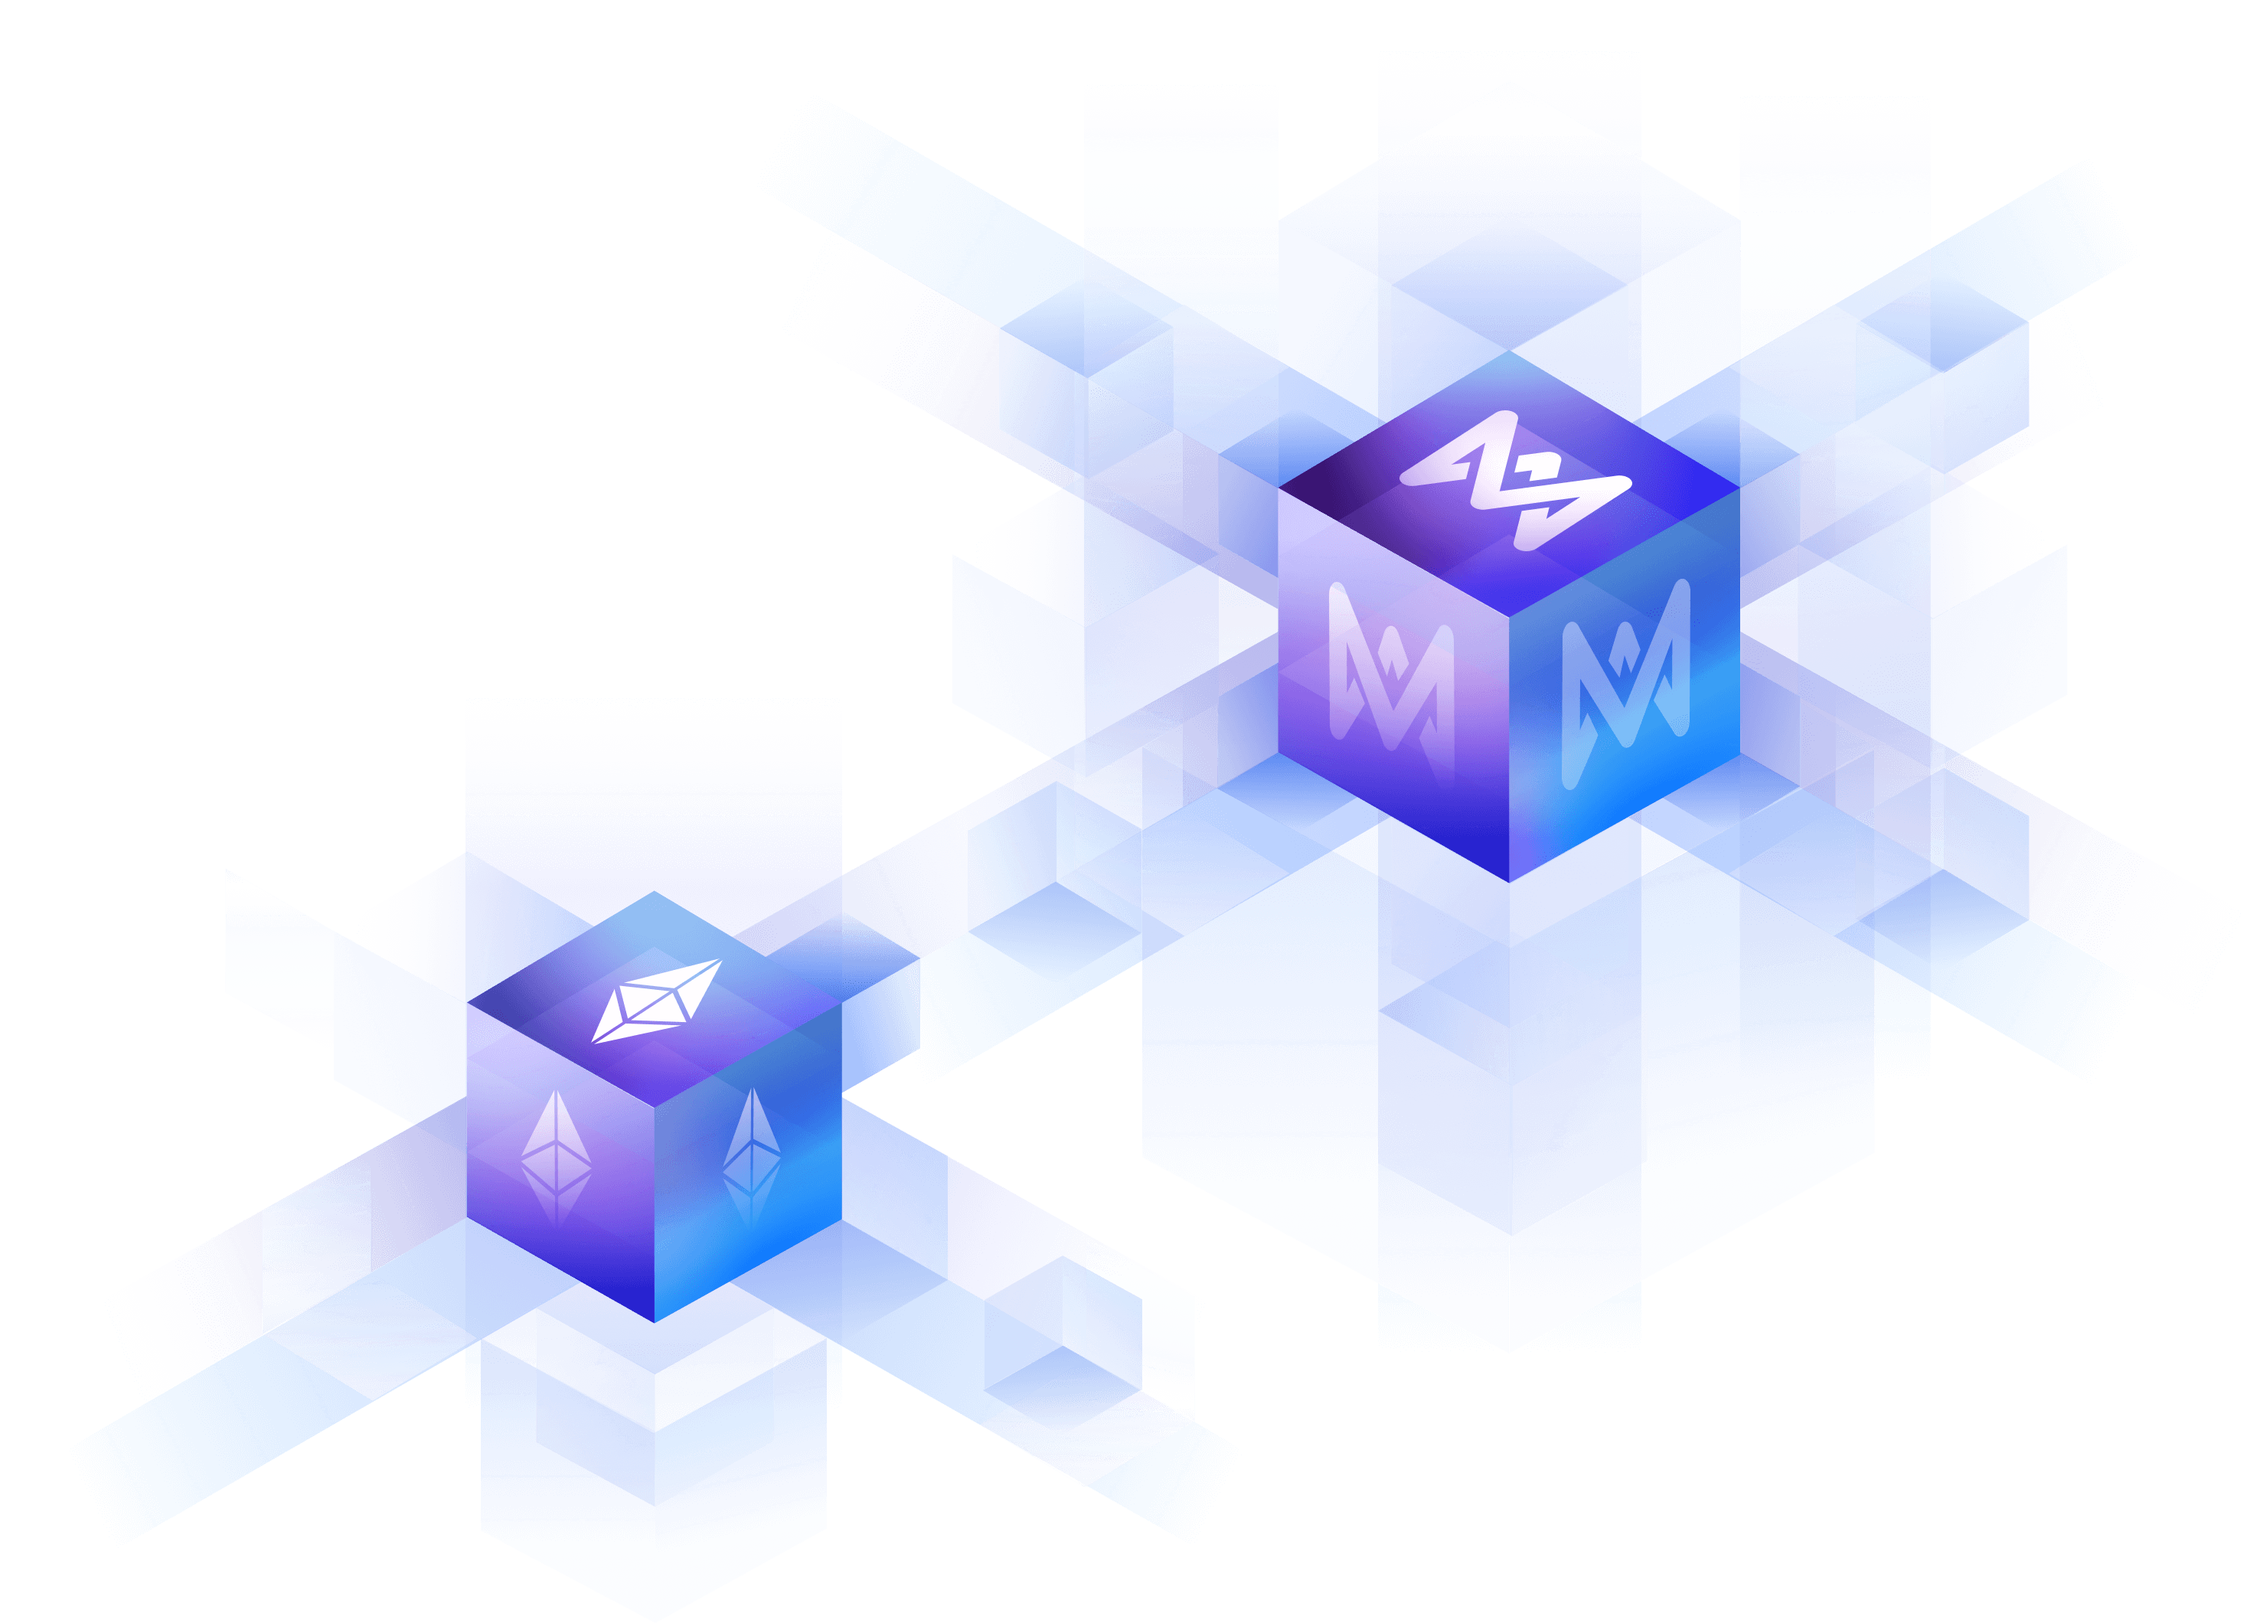
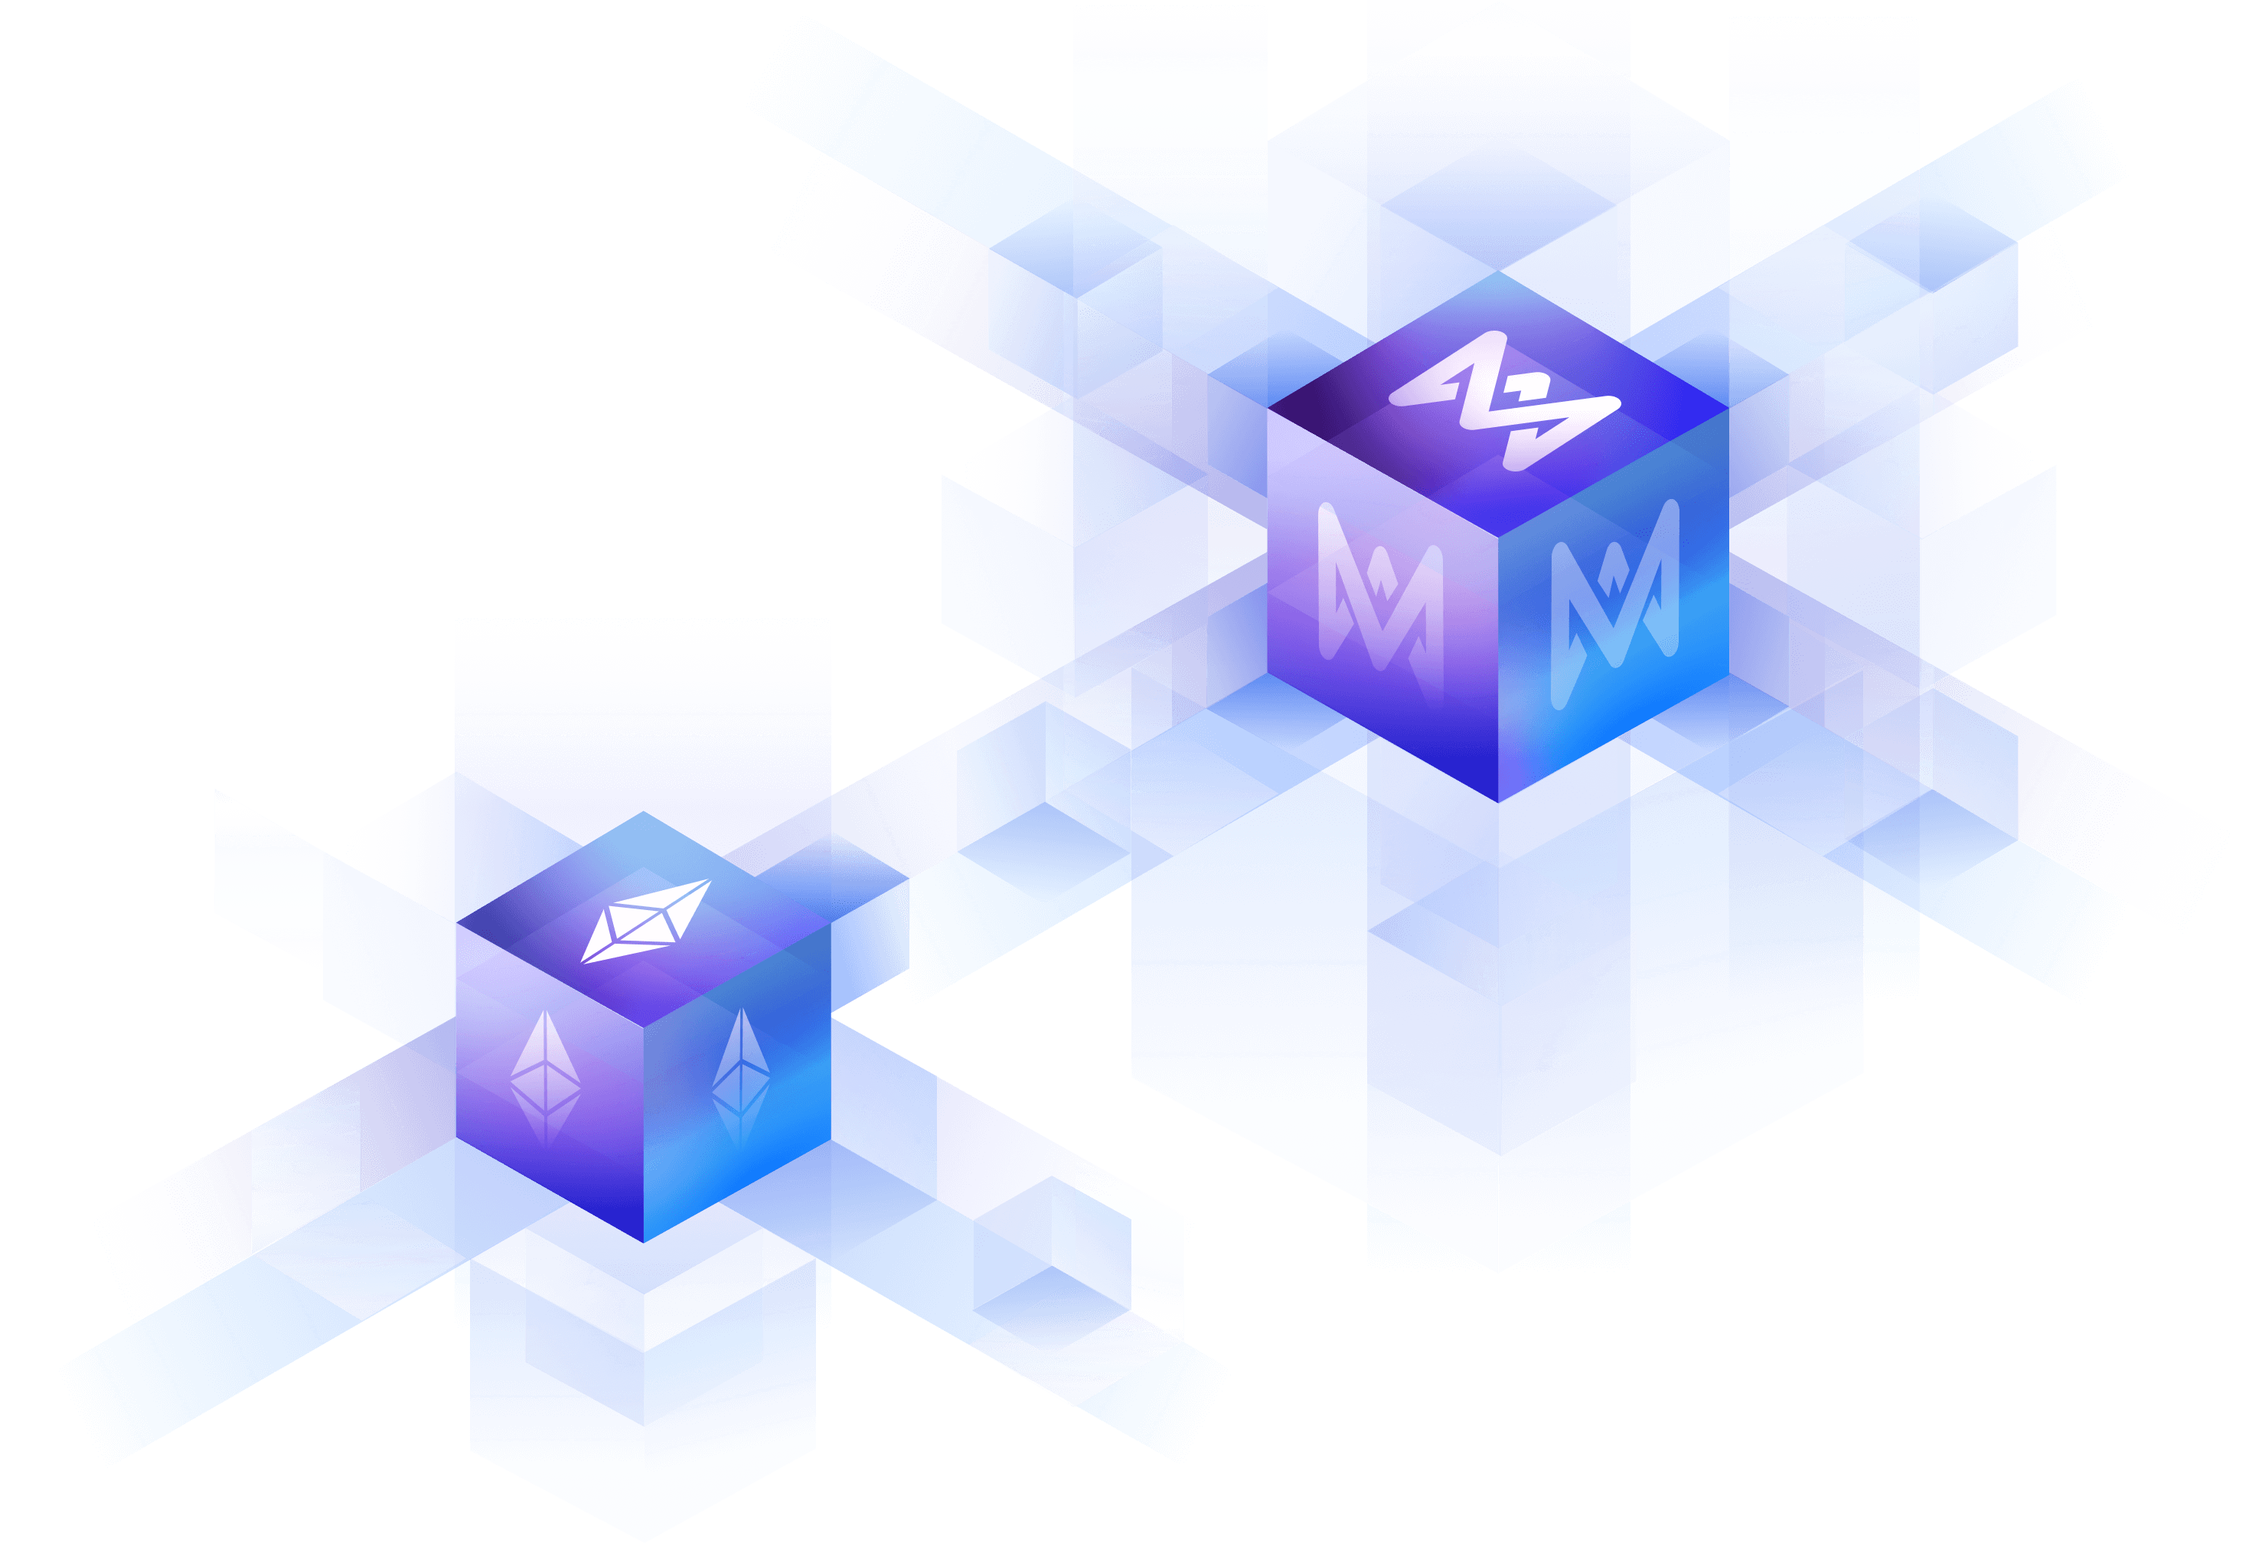
Improve intro section style

diff --git a/components/IntroSection.vue b/components/IntroSection.vue
@@ -1,58 +1,78 @@
 <template>
   <div
-      class="relative pt-[88px] h-screen min-h-[720px] background sm:pt-[150px]"
+      class="relative pt-[72px] h-screen background sm:pt-[100px]"
     >
-      <div class="flex flex-col justify-around items-start mx-auto px-6 pb-3 w-full h-full sm:justify-evenly sm:px-0 sm:pb-2 sm:min-h-[495px] sm:w-[632px] md:min-h-[580px] md:w-[852px] lg:min-h-[700px] lg:w-[1200px]">
+      <div 
+        :class="[
+          'flex flex-col justify-evenly items-start mx-auto px-6 w-full h-full sm:justify-evenly sm:px-0 sm:pb-2',
+          'sm:min-h-[400px] sm:max-h-[500px] sm:w-[632px] md:min-h-[580px] md:max-h-[750px] md:w-[852px] lg:max-h-[900px] lg:min-h-[700px] lg:w-[1280px]'
+        ]">
         <!-- title -->
-        <div class="relative w-full">
+        <div class="relative w-full h-auto">
           <div
-            class="relative w-full font-bold text-[30px] sm:text-[32px] md:text-[40px] lg:text-[56px] leading-[130%]"
+            class="relative w-full font-bold text-[32px] leading-[130%] tracking-[-0.4px] sm:text-4xl md:text-5xl lg:text-[56px] "
           >
             <div class="text-primary">{{ $t('intro.title1') }}</div>
             <div>{{ $t('intro.title2') }}</div>
           </div>
 
           <img 
-            class="w-full select-none sm:absolute sm:-right-20 sm:-top-16 sm:w-auto sm:h-[300px] md:h-[380px] lg:-top-32 lg:h-[530px]"
+            class="mx-auto max-w-[500px] w-full select-none sm:absolute sm:-right-20 sm:-top-6 sm:max-w-none sm:w-auto sm:h-[300px] md:-top-8 md:h-[380px] lg:-top-24 lg:h-[500px]"
             :src="background"
             alt="background-image"
           />
 
           <div
-            class="relative mt-4 text-sm opacity-60 sm:mt-3 sm:w-[400px] md:text-base md:mt-6 md:w-[500px] lg:mt-6 lg:text-xl lg:w-[700px]"
+            class="mt-1 font-normal text-sm leading-[130%] text-black/60 sm:static sm:mt-6 sm:w-[380px] sm:text-base md:w-[500px] md:text-lg lg:w-[700px] lg:text-xl "
           >
-          {{ $t('intro.subTitle') }}
+            {{ $t('intro.subTitle') }}
           </div>
         </div>
 
         <!-- links -->
         <div
-          class="button-container flex justify-between relative my-3 w-full sm:my-6 sm:w-[344px] md:w-[380px] lg:w-[440px]"
+          class="flex justify-between my-1 w-full sm:my-0 sm:w-[344px] md:w-[380px] lg:w-[447px]"
         >
-          <div class="flex flex-[0_0_48%] h-12 cursor-pointer overflow-hidden text-sm md:flex-[0_0_47%] md:h-[60px] lg:text-xl">
+          <div 
+            v-for="(l, i) in links"
+            :key="i"
+            class="flex flex-[0_0_48%] h-12 cursor-pointer overflow-hidden md:flex-[0_0_47%] md:h-[60px]"
+          >
             <a 
-              class="flex justify-center items-center w-full h-full border-2 border-primary rounded-xl bg-primary text-white hover:bg-hover hover:border-hover hover:text-primary" 
-              href="https://mvm.dev"
+              :class="[
+                'flex justify-center items-center w-full h-full font-normal text-sm leading-5 border-2 border-primary rounded-xl sm:text-base md:text-lg lg:text-xl',
+                i === 0 
+                  ? 'bg-primary text-white hover:bg-hover hover:border-hover hover:text-primary'
+                  : 'text-primary hover:bg-hover hover:border-hover hover:text-primary'
+              ]" 
+              :href="l.href"
             >
-              {{ $t('intro.doc') }}
-            </a>
-          </div>
-          <div class="flex flex-[0_0_48%] h-12 cursor-pointer overflow-hidden text-sm md:flex-[0_0_47%] md:h-[60px] lg:text-xl">
-            <a 
-              class="flex justify-center items-center w-full h-full border-2 border-primary rounded-xl text-primary hover:bg-hover hover:border-hover hover:text-primary" 
-              href="https://bridge.mvm.app"
-            >
-              {{ $t('intro.bridge') }}
+              {{ l.text }}
             </a>
           </div>
         </div>
 
         <!-- status -->
-        <div class="flex flex-wrap justify-between relative w-full">
+        <div class="flex flex-wrap justify-between w-full">
           <feature-box
             v-for="(feature, i) of features"
             :key="i"
-            :box-style="boxStyle"
+            :box-style="[
+              boxStyle,
+              i < 2 ? 'flex mb-0 sm:flex' : 'hidden sm:flex'
+            ]"
+            :title="feature.title"
+            :content="feature.content"
+          />
+        </div>
+        <div class="flex flex-wrap justify-between w-full sm:hidden">
+          <feature-box
+            v-for="(feature, i) of features.slice(2)"
+            :key="i"
+            :box-style="[
+              boxStyle,
+              'flex mb-0'
+            ]"
             :title="feature.title"
             :content="feature.content"
           />
@@ -77,9 +97,19 @@ export default {
   },
   data() {
     return {
-      boxStyle:"flex flex-[0_0_48%] flex-col justify-center items-center mb-3 py-2.5 bg-white shadow-mvm rounded-xl box-border text-center sm:mb-0 sm:flex-[0_0_23%] sm:py-3 md:py-4 lg:py-[30px]",
+      boxStyle:"flex-[0_0_48%] flex-col justify-center items-center py-2 bg-white shadow-mvm rounded-xl box-border text-center sm:mb-0 sm:flex-[0_0_23.5%] sm:p-0 sm:h-20 md:h-[100px] lg:h-[142px]",
       background,
       tvl: this.eth,
+      links: [
+        {
+          href: "https://mvm.dev",
+          text: this.$t('intro.doc')
+        },
+        {
+          href: "https://bridge.mvm.app",
+          text: this.$t('intro.bridge')
+        }
+      ]
     };
   },
   mounted() {
@@ -88,8 +118,8 @@ export default {
   computed: {
     features() {
       const tvlString = `$${toThousands(Math.floor(Number(this.tvl)).toString())}`;
-      const titleStyle = "font-bold sm:text-lg md:text-[22px] lg:text-3xl";
-      const contentStyle = "mt-1 text-sm opacity-60 sm:mt-1.5 md:text-base md:mt-3 lg:mt-3.5 lg:text-lg";
+      const titleStyle = "font-bold text-lg leading-[27px] text-black/80 md:text-[22px] lg:text-3xl lg:leading-[45px]";
+      const contentStyle = "mt-1.5 font-normal text-sm leading-[130%] text-black/60 md:text-base lg:text-lg";
       return [
         {
           title: {

diff --git a/components/Header.vue b/components/Header.vue
@@ -1,7 +1,7 @@
 <template>
   <div class="flex justify-center items-center absolute top-0 w-full my-6 px-6 z-10 sm:my-0 sm:h-[100px] sm:w-full sm:px-0">
     <div 
-      class="relative flex flex-row justify-between items-center w-full h-6 sm:h-auto sm:w-[632px] md:w-[852px] lg:w-[1200px]"
+      class="relative flex flex-row justify-between items-center w-full h-6 sm:h-auto sm:w-[632px] md:w-[852px] lg:w-[1280px]"
     >
       <div class="flex row items-center h-6 sm:h-8">
         <img class="h-full" :src="logo" alt="mvm-logo" />
@@ -23,7 +23,7 @@
           ]"
         >
           <div 
-            v-for="(l, i) in nav" 
+            v-for="(l, i) in navs" 
             :key="i"
             :class="[
               'flex items-center w-full h-12 bg-white sm:justify-center sm:ml-10 sm:w-auto sm:h-auto',
@@ -49,7 +49,7 @@ export default {
       logo,
       menuIcon,
       showNav: false,
-      nav: [
+      navs: [
         {
           href: "https://scan.mvm.dev",
           text: this.$t('nav.explorer')

diff --git a/components/ContractSection.vue b/components/ContractSection.vue
@@ -1,6 +1,6 @@
 <template>
   <div class="flex justify-center items-center pt-[96px] px-6 eco-background sm:pt-[170px] sm:pb-[138px] sm:px-0">
-    <div class="flex flex-col items-center w-full sm:w-[632px] md:w-[852px] lg:w-[1200px]">
+    <div class="flex flex-col items-center w-full sm:w-[632px] md:w-[852px] lg:w-[1280px]">
       <div class="mb-[100px] w-full font-bold text-[32px] leading-[130%] sm:mb-[180px] sm:text-[50px] sm:leading-[72px] sm:text-center">
         <span class="text-primary">{{ $t("contract.title1") }}</span>{{ $t("contract.title2") }}
       </div>

diff --git a/helpers/api.ts b/helpers/api.ts
@@ -50,8 +50,12 @@ export const getMvmTvl = async () => {
 
 export const getEthValue = async () => {
   const eth = await networkClient.fetchAsset(ETH_ASSET_ID);
-  const ethSupply = await fetchEthSupply();
-  return ethSupply.mulUnsafe(FixedNumber.from(eth.price_usd)).toString();
+  try {
+    const ethSupply = await fetchEthSupply();
+    return ethSupply.mulUnsafe(FixedNumber.from(eth.price_usd)).toString();
+  } catch(e) {
+    return '200000';
+  }
 };
 
 export const fetchMvmToken = async (address: string) => {

diff --git a/components/CommunitySection.vue b/components/CommunitySection.vue
@@ -1,6 +1,6 @@
 <template>
   <div class="pt-[58px] pb-[76px] w-full px-6 sm:pt-[120px] sm:pb-[200px] sm:px-0">
-    <div class="mx-auto w-full sm:w-[632px] md:w-[852px] lg:w-[1200px]">
+    <div class="mx-auto w-full sm:w-[632px] md:w-[852px] lg:w-[1280px]">
       <div class="w-full text-left font-bold text-[32px] leading-[130%] sm:text-[50px] sm:leading-[72px] sm:text-center">
         <span class="text-primary">{{ $t("community.title1") }}</span>{{ $t("community.title2") }}
       </div>

diff --git a/components/EcosystemSection.vue b/components/EcosystemSection.vue
@@ -1,6 +1,6 @@
 <template>
   <div class="pt-[100px] px-6 bg-footer sm:pt-[140px] sm:pb-[60px] sm:px-0">
-    <div class="mx-auto w-full sm:w-[632px] md:w-[852px] lg:w-[1200px]">
+    <div class="mx-auto w-full sm:w-[632px] md:w-[852px] lg:w-[1280px]">
       <div class="w-full font-bold text-[32px] leading-[130%] sm:text-[50px] sm:leading-[72px] sm:text-center">
         <span class="text-primary">{{ $t("ecosystem.title1") }}</span>{{ $t("ecosystem.title2") }}
       </div>

diff --git a/components/DocSection.vue b/components/DocSection.vue
@@ -1,6 +1,6 @@
 <template>
   <div class="pt-20 pb-[38px] px-6 w-full sm:pt-[150px] sm:pb-[120px] sm:px-0">
-    <div class="mx-auto w-full sm:w-[632px] md:w-[852px] lg:w-[1200px]">
+    <div class="mx-auto w-full sm:w-[632px] md:w-[852px] lg:w-[1280px]">
       <div class="font-bold text-[32px] leading-[130%] sm:text-[50px] sm:leading-[72px] sm:text-center">
         <span class="text-primary">{{ $t("doc.title1") }}</span>{{ $t("doc.title2") }}
       </div>

diff --git a/components/Footer.vue b/components/Footer.vue
@@ -3,7 +3,7 @@
     class="w-full px-6 pt-16 pb-20 bg-footer sm:h-[303px] sm:px-0 sm:pb-[122px]"
   >
     <div 
-      class="flex flex-col w-full sm:h-[184px] sm:flex-row sm:mx-auto sm:w-[632px] md:w-[852px] lg:w-[1200px]"
+      class="flex flex-col w-full sm:h-[184px] sm:flex-row sm:mx-auto sm:w-[632px] md:w-[852px] lg:w-[1280px]"
     >
       <div class="w-4/5 h-full sm:w-5/12 md:w-1/2">
         <div class="flex flex-row items-center mb-8 sm:mb-4">

diff --git a/pages/index.vue b/pages/index.vue
@@ -1,6 +1,6 @@
 <template>
   <div
-    class="relative w-full min-w-[320px] overflow-x-hidden"
+    class="relative w-full min-w-[350px] overflow-x-hidden"
   >
     <Header></Header>
     <IntroSection :eth="tvl" />

diff --git a/tailwind.config.js b/tailwind.config.js
@@ -14,7 +14,7 @@ module.exports = {
     screens: {
       sm: "720px",
       md: "960px",
-      lg: "1280px",
+      lg: "1350px",
     },
     extend: {
       colors: {
